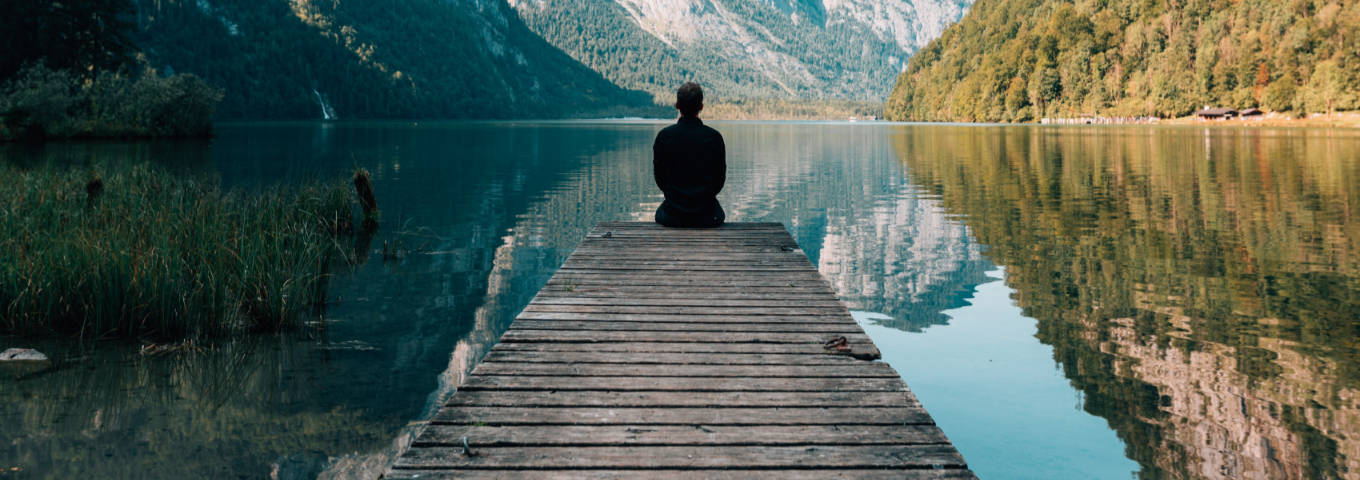
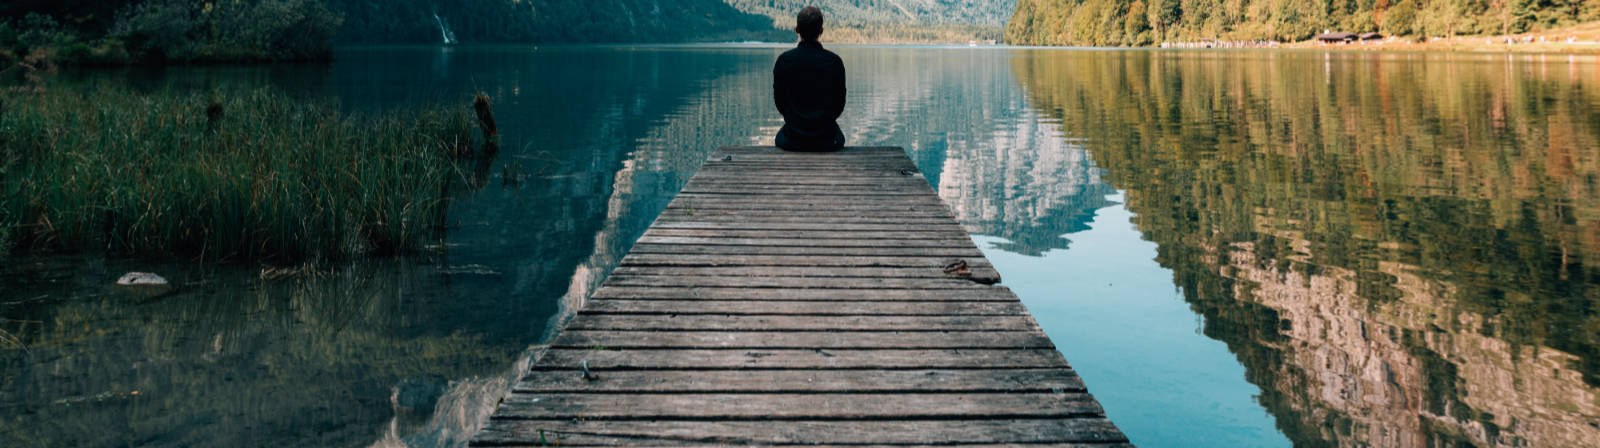
Second Commit - Update 1

diff --git a/css/plantery.css b/css/plantery.css
@@ -62,8 +62,8 @@ nav#toolbar-administration {margin-bottom: 1rem;}
 
 /*** BLOCKS ***/
 .header-top {
-	background: url("../images/background-calm-clouds-747964-top5.jpg");
-	height: 29rem;
+	background: url("../images/background-calm-clouds-747964-top4a.jpg");
+	height: 35rem;
 	width: 100%;
 	-webkit-background-size: cover;
 	-moz-background-size: cover;
@@ -73,8 +73,8 @@ nav#toolbar-administration {margin-bottom: 1rem;}
 }
 
 .header-btm {
-	background: url("../images/background-calm-clouds-747964-btm5.jpg");
-	height: 29rem;
+	background: url("../images/background-calm-clouds-747964-btm4a.jpg");
+	height: 28rem;
 	width: 100%;
 	-webkit-background-size: cover;
 	-moz-background-size: cover;
@@ -89,12 +89,24 @@ nav#toolbar-administration {margin-bottom: 1rem;}
 @media only screen and (max-width : 1200px) {
 	/* Styles */
 	.header-top {
-		background: url("../images/background-calm-clouds-747964-top5.jpg");
-		height: 29rem;
+		background: url("../images/background-calm-clouds-747964-top4a.jpg");
+		height: 35rem;
 	}
 	.header-btm {
-		background: url("../images/background-calm-clouds-747964-btm5.jpg");
-		height: 29rem;
+		background: url("../images/background-calm-clouds-747964-btm4a.jpg");
+		height: 28rem;
+	}
+}
+
+@media only screen and (max-width : 1080px) {
+	/* Styles */
+	.header-top {
+		background: url("../images/background-calm-clouds-747964-top4b.jpg");
+		height: 32rem;
+	}
+	.header-btm {
+		background: url("../images/background-calm-clouds-747964-btm4b.jpg");
+		height: 27rem;
 	}
 }
 
@@ -108,11 +120,11 @@ nav#toolbar-administration {margin-bottom: 1rem;}
 	h6 {font-size: 0.90rem;}
 	/* Styles */
 	.header-top {
-		background: url("../images/background-calm-clouds-747964-top5c.jpg") !important;
-		height: 26rem;
+		background: #FFF;
+		height: 18rem;
 	}
 	.header-btm {
-		background: url("../images/background-calm-clouds-747964-btm5c.jpg") !important;
+		background: url("../images/background-calm-clouds-747964-btm4c.jpg") !important;
 		height: 26rem;
 	}
 }
@@ -128,12 +140,12 @@ nav#toolbar-administration {margin-bottom: 1rem;}
 	h6 {font-size: 0.80rem;}
 	/* Styles */
 	.header-top {
-		background: url("../images/background-calm-clouds-747964-top5d.jpg") !important;
-		height: 23rem;
+		background: #FFF;
+		height: 18rem;
 	}
 	.header-btm {
-		background: url("../images/background-calm-clouds-747964-btm5d.jpg") !important;
-		height: 23rem;
+		background: url("../images/background-calm-clouds-747964-btm4d.jpg") !important;
+		height: 24rem;
 	}
 }
 

diff --git a/css/octo.css b/css/octo.css
@@ -470,10 +470,8 @@ ul.simple-post-list .post-meta {
 }
 
 .navbar-main .nav {
-	margin-top: 12px;
-	float: right;
+	float: left;
 	position: relative;
-	margin-right: 36px;
 }
 @media (max-width: 48em) {
 	.navbar-main .nav {
